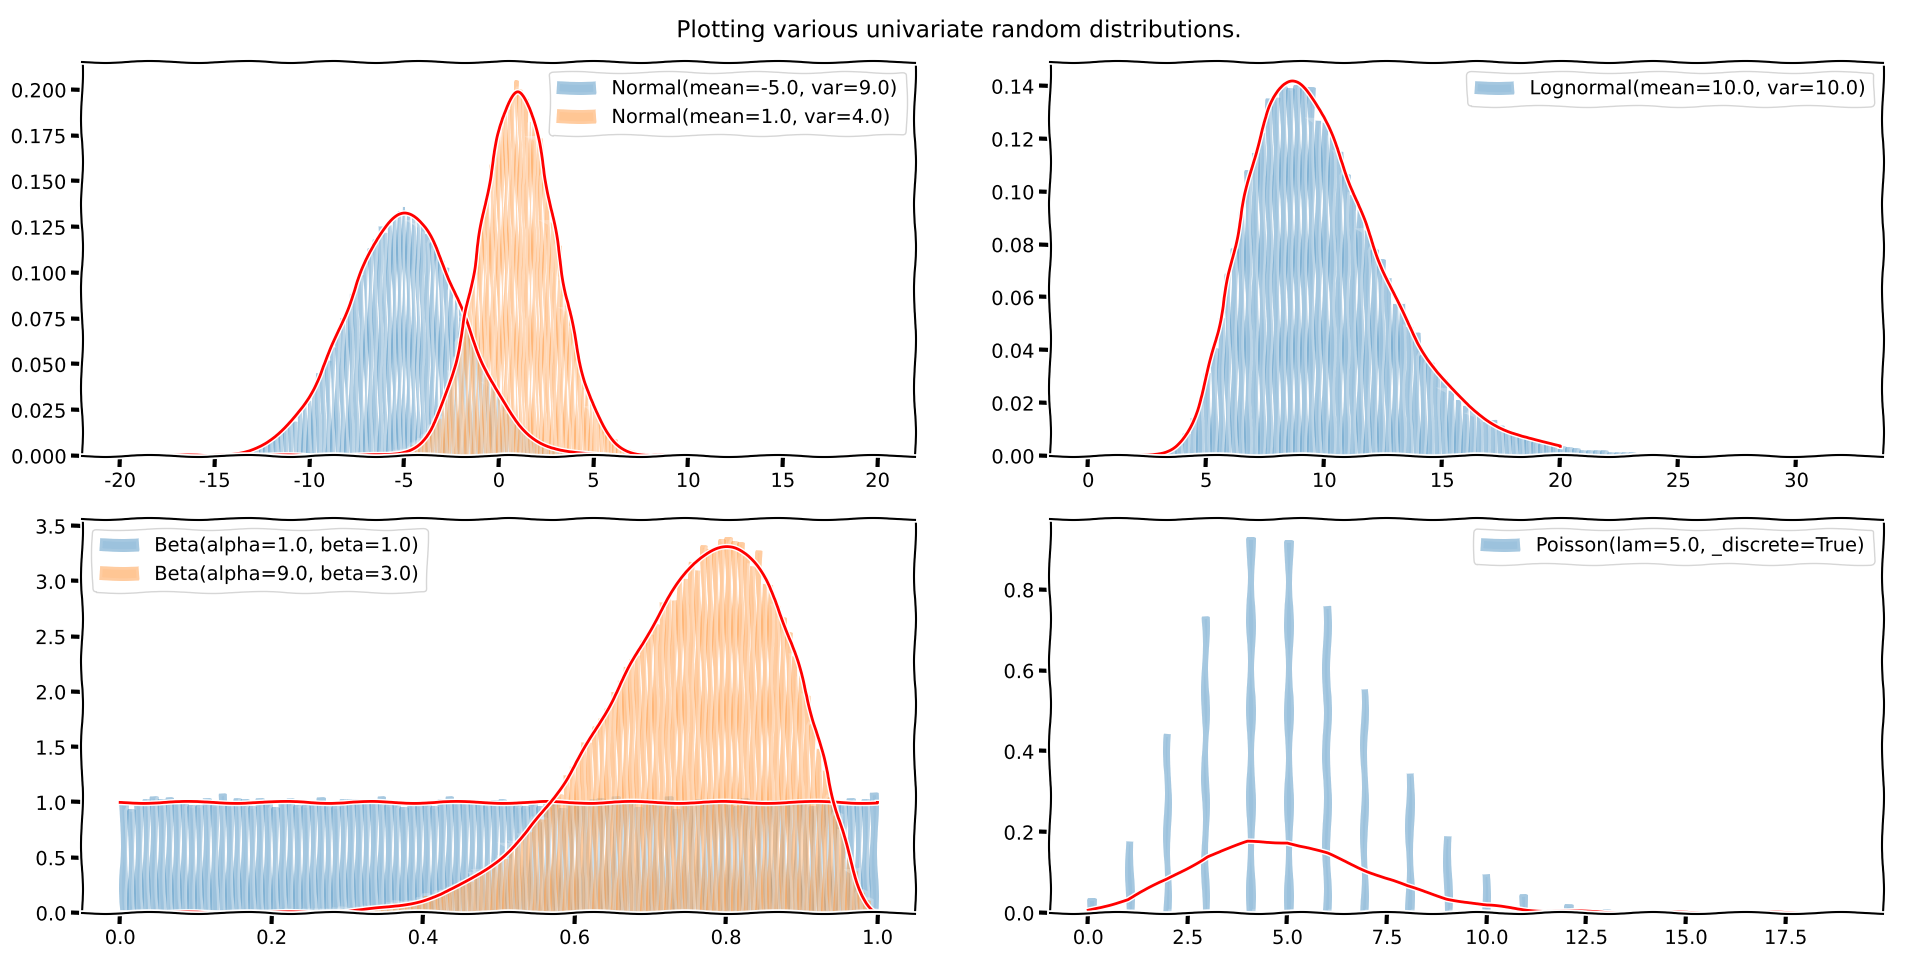
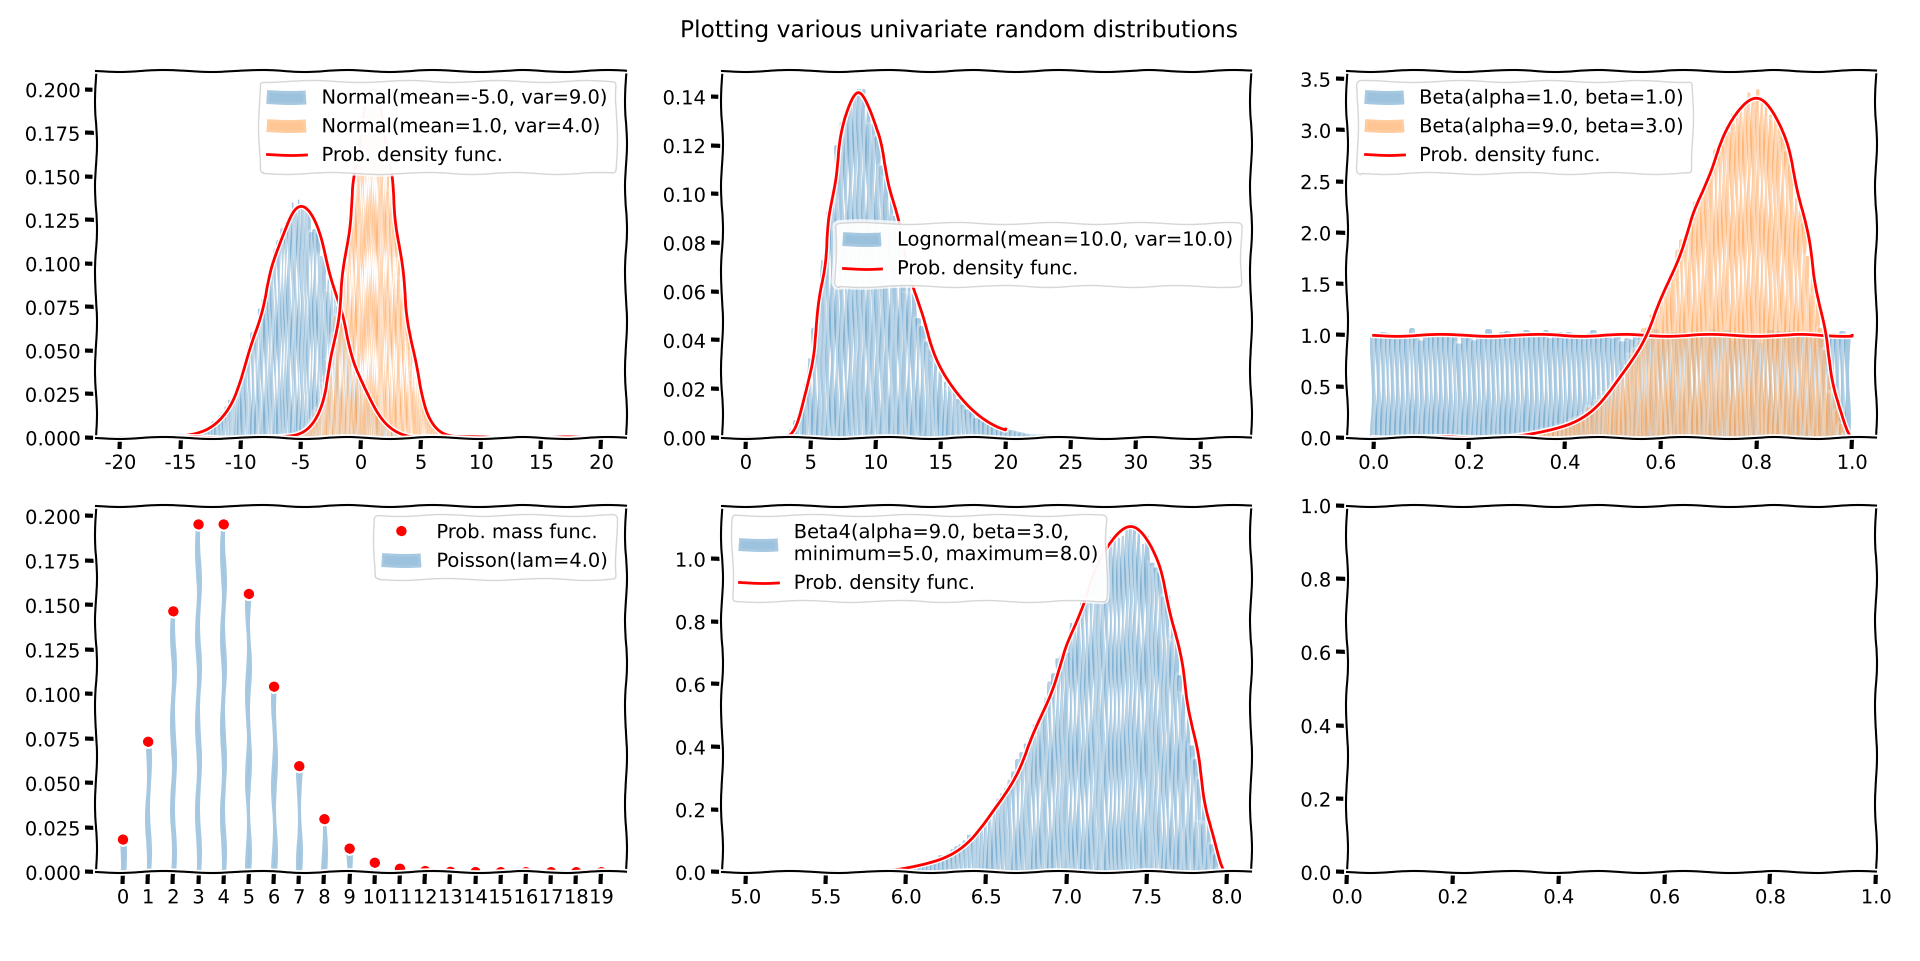
update univariate distribution example plots

diff --git a/distribution_algebra/plotting.py b/distribution_algebra/plotting.py
@@ -22,13 +22,13 @@ from distribution_algebra.beta4 import Beta4
 
 
 @singledispatch
-def plot(*_: Any, ax: None | plt.axes.Axes=None, **kwargs: Any) -> Any:  # pyright: ignore
+def plot(*_: Any, ax: None | plt.Axes=None, **kwargs: Any) -> Any:  # pyright: ignore
     raise NotImplementedError
 
 @plot.register(UnivariateDistribution)
 def plot_univariate_distribution(
         udist: UnivariateDistribution[T_in],
-        ax: None | plt.axes.Axes = None,  # type: ignore
+        ax: None | plt.Axes = None,  # type: ignore
         **kwargs: Any) -> list[Line2D]:
     ax = ax or plt.gca()
     plot_vectorized_distribution(udist.to_vectorized(), ax=ax, **kwargs)
@@ -47,7 +47,7 @@ def plot_univariate_distribution(
 @plot.register(VectorizedDistribution)
 def plot_vectorized_distribution(
         vdist: VectorizedDistribution[T_in],
-        ax: None | plt.axes.Axes = None,  # type: ignore
+        ax: None | plt.Axes = None,  # type: ignore
         **kwargs: Any) -> tuple[NDArray[np.float64], NDArray[np.float64], list[Polygon]]:
     ax = ax or plt.gca()
     assert ax is not None
@@ -66,11 +66,11 @@ def plot_vectorized_distribution(
 def plot_all_distributions() -> None:
     plt.xkcd()
     _: plt.figure.Figure  # type: ignore
-    axes: tuple[tuple[plt.axes.Axes, ...], ...]  # type: ignore
-    _, axes = plt.subplots(2, 3)
+    axes: tuple[tuple[plt.Axes, ...], ...]  # type: ignore
+    fig, axes = plt.subplots(2, 3, figsize=(16, 9))
 
     # Normal distributions.
-    ax: plt.axes.Axes = axes[0][0]  # type: ignore
+    ax: plt.Axes = axes[0][0]  # type: ignore
     a: Normal = Normal(mean=-5.0, var=9.0)
     b: Normal = Normal(mean=1.0, var=4.0)
     plot(a, ax=ax, label=f"{a}")
@@ -109,8 +109,8 @@ def plot_all_distributions() -> None:
     b41_plot[0].set_label("Prob. density func.")
     ax.legend()
 
-
-    plt.suptitle("Plotting various univariate random distributions.")
+    plt.tight_layout(rect=[0, 0.03, 1, 0.95])
+    plt.suptitle("Plotting various univariate random distributions")
     plt.show()
 
 
